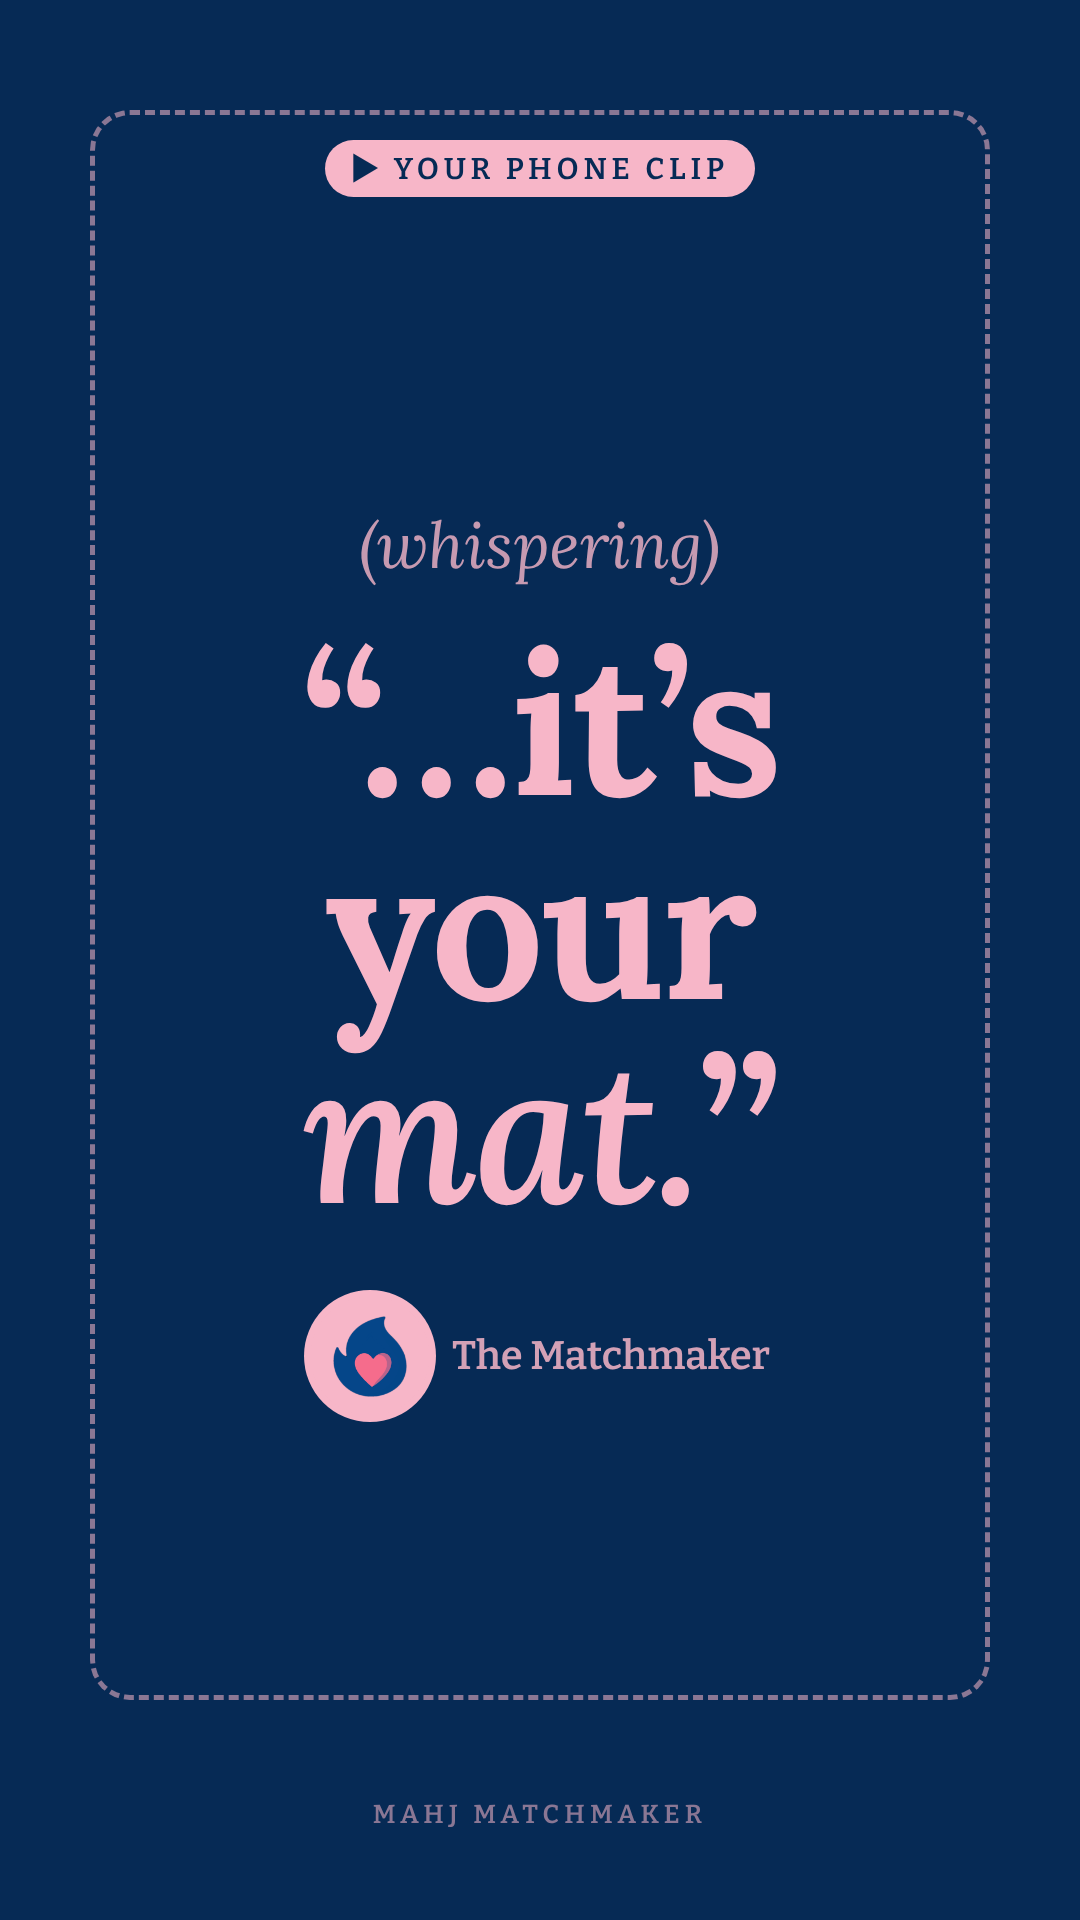
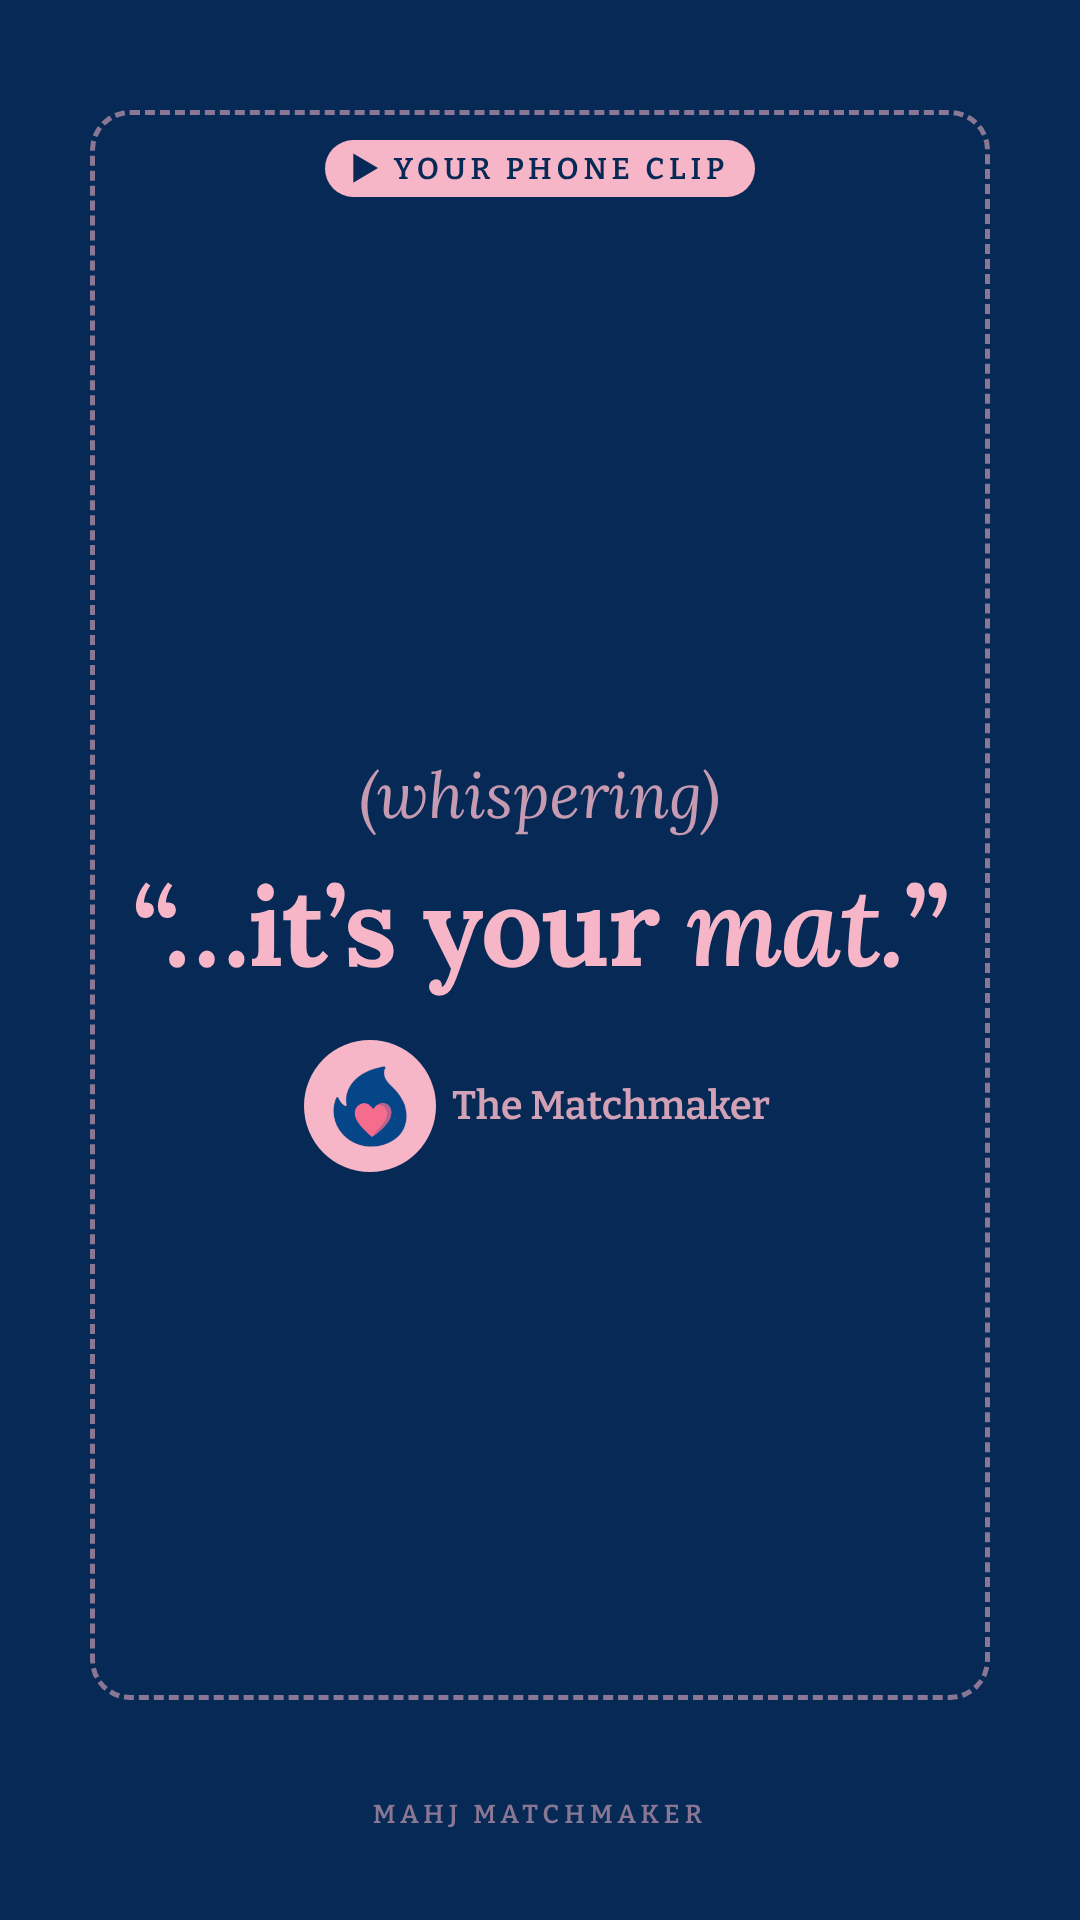
WIP: reel rebuild in progress
Claude-Session: https://claude.ai/code/session_014aKoC1ZMdZPjGkZ9kHhnLk

diff --git a/assets/social/titlecards/counseling-ep1-papaya/frames/f01.html b/assets/social/titlecards/counseling-ep1-papaya/frames/f01.html
@@ -10,10 +10,12 @@ html,body{width:1080px;height:1920px;overflow:hidden}
 .line i{font-style:italic;font-weight:600}
 .who{font:600 40px Bit;margin-top:56px;opacity:.85}
 .mark{position:absolute;bottom:90px;left:0;right:0;display:flex;justify-content:center;align-items:center;gap:14px;font:600 26px Bit;letter-spacing:.2em;text-transform:uppercase;opacity:.55}
-</style></head><body><div class="wrap" style="background:#062a55;padding:0">
-  <div style="position:absolute;right:-220px;top:-160px;width:760px;height:760px;border-radius:50%;background:#0c3a70"></div>
-  <div style="position:absolute;left:-240px;bottom:-220px;width:700px;height:700px;border-radius:50%;background:#0c3a70"></div>
-  <div style="position:relative;width:780px;height:1600px;border-radius:120px;background:#0b0b0d;padding:22px;box-shadow:0 40px 90px rgba(0,0,0,.45),inset 0 0 0 4px #2a2a2e">
+</style></head><body><div class="wrap" style="background:#f6e9df;padding:0">
+  <div style="position:absolute;right:-220px;top:-160px;width:760px;height:760px;border-radius:50%;background:#f9dccf"></div>
+  <div style="position:absolute;left:-240px;bottom:-220px;width:700px;height:700px;border-radius:50%;background:#fbe3ea"></div>
+  <svg style="position:absolute;left:70px;top:180px;transform:rotate(-12deg)" width="70" height="70" viewBox="0 0 48 48"><path d="M24 40 C10 30 6 23 6 17 C6 11 11 7 16 7 C20 7 22 9 24 12 C26 9 28 7 32 7 C37 7 42 11 42 17 C42 23 38 30 24 40 Z" fill="#f56c8c"/></svg><svg style="position:absolute;left:930px;top:330px;transform:rotate(10deg)" width="54" height="54" viewBox="0 0 48 48"><path d="M24 40 C10 30 6 23 6 17 C6 11 11 7 16 7 C20 7 22 9 24 12 C26 9 28 7 32 7 C37 7 42 11 42 17 C42 23 38 30 24 40 Z" fill="#f7b6c8"/></svg><svg style="position:absolute;left:40px;top:1180px;transform:rotate(8deg)" width="58" height="58" viewBox="0 0 48 48"><path d="M24 40 C10 30 6 23 6 17 C6 11 11 7 16 7 C20 7 22 9 24 12 C26 9 28 7 32 7 C37 7 42 11 42 17 C42 23 38 30 24 40 Z" fill="#f7b6c8"/></svg><svg style="position:absolute;left:960px;top:1500px;transform:rotate(-10deg)" width="76" height="76" viewBox="0 0 48 48"><path d="M24 40 C10 30 6 23 6 17 C6 11 11 7 16 7 C20 7 22 9 24 12 C26 9 28 7 32 7 C37 7 42 11 42 17 C42 23 38 30 24 40 Z" fill="#f56c8c"/></svg><svg style="position:absolute;left:110px;top:1700px;transform:rotate(12deg)" width="44" height="44" viewBox="0 0 48 48"><path d="M24 40 C10 30 6 23 6 17 C6 11 11 7 16 7 C20 7 22 9 24 12 C26 9 28 7 32 7 C37 7 42 11 42 17 C42 23 38 30 24 40 Z" fill="#ffa868"/></svg><svg style="position:absolute;left:900px;top:820px;transform:rotate(-6deg)" width="40" height="40" viewBox="0 0 48 48"><path d="M24 40 C10 30 6 23 6 17 C6 11 11 7 16 7 C20 7 22 9 24 12 C26 9 28 7 32 7 C37 7 42 11 42 17 C42 23 38 30 24 40 Z" fill="#ffa868"/></svg>
+  <div style="position:relative;width:780px;height:1600px;border-radius:120px;background:#f4a7bd;padding:24px;box-shadow:0 40px 80px rgba(200,50,95,.28),inset 0 0 0 6px #f9c6d4,inset 0 0 0 12px #f4a7bd">
+   <div style="position:absolute;right:-16px;top:300px;width:10px;height:150px;border-radius:6px;background:#ec93ad"></div><div style="position:absolute;left:-16px;top:260px;width:10px;height:90px;border-radius:6px;background:#ec93ad"></div><div style="position:absolute;left:-16px;top:380px;width:10px;height:90px;border-radius:6px;background:#ec93ad"></div>
    <div style="position:relative;width:100%;height:100%;border-radius:100px;overflow:hidden;background:url(file:///home/claude/mahjmatchmaker-data/assets/tiles/album/papaya-spritz.jpg) center/cover">
     <div style="position:absolute;inset:0;background:linear-gradient(to bottom,rgba(10,6,20,.62) 0%,rgba(10,6,20,.15) 38%,rgba(10,6,20,.25) 62%,rgba(10,6,20,.78) 100%)"></div>
     <div style="position:absolute;top:26px;left:50%;transform:translateX(-50%);width:230px;height:66px;border-radius:40px;background:#000;z-index:6"></div>

diff --git a/assets/social/titlecards/counseling-ep1-papaya/frames/f11.html b/assets/social/titlecards/counseling-ep1-papaya/frames/f11.html
@@ -10,4 +10,14 @@ html,body{width:1080px;height:1920px;overflow:hidden}
 .line i{font-style:italic;font-weight:600}
 .who{font:600 40px Bit;margin-top:56px;opacity:.85}
 .mark{position:absolute;bottom:90px;left:0;right:0;display:flex;justify-content:center;align-items:center;gap:14px;font:600 26px Bit;letter-spacing:.2em;text-transform:uppercase;opacity:.55}
-</style></head><body><div class="wrap" style="background:#062a55;color:#f7b6c8"><div style="position:absolute;top:110px;left:90px;right:90px;bottom:220px;border:5px dashed rgba(247,182,200,.55);border-radius:40px"></div><div style="position:absolute;top:140px;font:600 30px Bit;letter-spacing:.16em;text-transform:uppercase;background:#f7b6c8;color:#062a55;padding:10px 26px;border-radius:999px">&#9654; your phone clip</div><div class="line" style="font-size:128px">&ldquo;You deserve someone who brings out your <i>best colors.</i>&rdquo;</div><div style="display:flex;align-items:center;gap:22px;margin-top:64px"><div style="width:120px;height:120px;border-radius:50%;background:#f7b6c8 url(file:///home/claude/mahjmatchmaker-data/assets/brand/flame-heart.png) center/62% no-repeat;box-shadow:0 0 0 6px #f7b6c8"></div><div class="who" style="margin-top:0;text-align:left">The Matchmaker</div></div><div class="mark">mahj matchmaker</div></div></body></html>
+</style></head><body><div class="wrap" style="background:#062a55;color:#f7b6c8;justify-content:flex-start;padding-top:230px">
+  <div style="font-family:Lo;font-style:italic;font-size:60px;opacity:.85">(searches database)</div>
+  <div class="line" style="font-size:104px;margin-top:34px">&ldquo;You deserve someone who brings out your <i>best colors.</i>&rdquo;</div>
+  <div style="display:flex;align-items:center;gap:20px;margin-top:40px"><div style="width:96px;height:96px;border-radius:50%;background:#f7b6c8 url(file:///home/claude/mahjmatchmaker-data/assets/brand/flame-heart.png) center/62% no-repeat;box-shadow:0 0 0 5px #f7b6c8"></div><div class="who" style="margin-top:0">The Matchmaker</div></div>
+  <div style="position:relative;margin-top:90px;width:960px">
+    <div style="width:880px;margin:0 auto;background:#f4a7bd;border-radius:34px 34px 0 0;padding:22px 22px 26px;box-shadow:0 20px 50px rgba(0,0,0,.3)">
+      <div style="position:relative;width:836px;height:470px;border-radius:14px;overflow:hidden;background:#fff url(file:///home/claude/mahjmatchmaker-data/assets/colorcards/papaya-spritz/00-papaya-spritz-mahjong-tiles-profile-a-desktop.jpg) center/cover"></div></div>
+    <div style="width:960px;height:44px;background:#f9c6d4;border-radius:0 0 40px 40px;position:relative;box-shadow:0 18px 40px rgba(0,0,0,.25)"><div style="position:absolute;left:50%;top:0;transform:translateX(-50%);width:170px;height:16px;background:#ec93ad;border-radius:0 0 14px 14px"></div></div>
+  </div>
+  <div style="position:absolute;bottom:90px;left:0;right:0;text-align:center;font:600 26px Bit;letter-spacing:.2em;text-transform:uppercase;opacity:.55">mahj matchmaker</div>
+</div></body></html>

diff --git a/assets/social/titlecards/counseling-ep1-papaya/frames/research.html b/assets/social/titlecards/counseling-ep1-papaya/frames/research.html
@@ -1,0 +1,23 @@
+<!doctype html><html><head><meta charset=utf8><style>
+@font-face{font-family:Lo;src:url('file:///usr/share/fonts/truetype/google-fonts/Lora-Variable.ttf')}
+@font-face{font-family:Lo;font-style:italic;src:url('file:///usr/share/fonts/truetype/google-fonts/Lora-Italic-Variable.ttf')}
+@font-face{font-family:Bit;font-weight:600;src:url('file:///home/claude/mahjmatchmaker-data/scripts/social/tileprofile/fonts/bitter-latin-600-normal.woff2')}
+@font-face{font-family:Hand;src:url('file:///home/claude/mahjmatchmaker-data/scripts/social/tileprofile/fonts/Caveat-Bold.ttf')}
+*{margin:0;padding:0;box-sizing:border-box}
+html,body{width:1080px;height:1920px;overflow:hidden}
+.wrap{position:relative;width:1080px;height:1920px;display:flex;flex-direction:column;align-items:center;justify-content:center;text-align:center;padding:0 90px}
+.line{font-family:Lo;font-weight:700;line-height:1.02;letter-spacing:-.015em}
+.line i{font-style:italic;font-weight:600}
+.who{font:600 40px Bit;margin-top:56px;opacity:.85}
+.mark{position:absolute;bottom:90px;left:0;right:0;display:flex;justify-content:center;align-items:center;gap:14px;font:600 26px Bit;letter-spacing:.2em;text-transform:uppercase;opacity:.55}
+</style></head><body><div class="wrap" style="background:#062a55;color:#f7b6c8;justify-content:flex-start;padding-top:230px">
+  <div style="font-family:Lo;font-style:italic;font-size:60px;opacity:.85">(searches database)</div>
+  <div class="line" style="font-size:104px;margin-top:34px">&ldquo;You deserve someone who brings out your <i>best colors.</i>&rdquo;</div>
+  <div style="display:flex;align-items:center;gap:20px;margin-top:40px"><div style="width:96px;height:96px;border-radius:50%;background:#f7b6c8 url(file:///home/claude/mahjmatchmaker-data/assets/brand/flame-heart.png) center/62% no-repeat;box-shadow:0 0 0 5px #f7b6c8"></div><div class="who" style="margin-top:0">The Matchmaker</div></div>
+  <div style="position:relative;margin-top:90px;width:960px">
+    <div style="width:880px;margin:0 auto;background:#f4a7bd;border-radius:34px 34px 0 0;padding:22px 22px 26px;box-shadow:0 20px 50px rgba(0,0,0,.3)">
+      <div style="position:relative;width:836px;height:470px;border-radius:14px;overflow:hidden;background:#fff url(file:///home/claude/mahjmatchmaker-data/assets/colorcards/papaya-spritz/00-papaya-spritz-mahjong-tiles-profile-a-desktop.jpg) center/cover"></div></div>
+    <div style="width:960px;height:44px;background:#f9c6d4;border-radius:0 0 40px 40px;position:relative;box-shadow:0 18px 40px rgba(0,0,0,.25)"><div style="position:absolute;left:50%;top:0;transform:translateX(-50%);width:170px;height:16px;background:#ec93ad;border-radius:0 0 14px 14px"></div></div>
+  </div>
+  <div style="position:absolute;bottom:90px;left:0;right:0;text-align:center;font:600 26px Bit;letter-spacing:.2em;text-transform:uppercase;opacity:.55">mahj matchmaker</div>
+</div></body></html>

diff --git a/assets/social/titlecards/counseling-ep1-papaya/frames/f08.html b/assets/social/titlecards/counseling-ep1-papaya/frames/f08.html
@@ -10,4 +10,4 @@ html,body{width:1080px;height:1920px;overflow:hidden}
 .line i{font-style:italic;font-weight:600}
 .who{font:600 40px Bit;margin-top:56px;opacity:.85}
 .mark{position:absolute;bottom:90px;left:0;right:0;display:flex;justify-content:center;align-items:center;gap:14px;font:600 26px Bit;letter-spacing:.2em;text-transform:uppercase;opacity:.55}
-</style></head><body><div class="wrap" style="background:#062a55;color:#f7b6c8"><div style="position:absolute;top:110px;left:90px;right:90px;bottom:220px;border:5px dashed rgba(247,182,200,.55);border-radius:40px"></div><div style="position:absolute;top:140px;font:600 30px Bit;letter-spacing:.16em;text-transform:uppercase;background:#f7b6c8;color:#062a55;padding:10px 26px;border-radius:999px">&#9654; your phone clip</div><div style="font-family:Lo;font-style:italic;font-size:64px;opacity:.8;margin-bottom:34px">(whispering)</div><div class="line" style="font-size:200px">&ldquo;&hellip;it&rsquo;s your <i>mat.</i>&rdquo;</div><div style="display:flex;align-items:center;gap:22px;margin-top:64px"><div style="width:120px;height:120px;border-radius:50%;background:#f7b6c8 url(file:///home/claude/mahjmatchmaker-data/assets/brand/flame-heart.png) center/62% no-repeat;box-shadow:0 0 0 6px #f7b6c8"></div><div class="who" style="margin-top:0;text-align:left">The Matchmaker</div></div><div class="mark">mahj matchmaker</div></div></body></html>
+</style></head><body><div class="wrap" style="background:#062a55;color:#f7b6c8"><div style="position:absolute;top:110px;left:90px;right:90px;bottom:220px;border:5px dashed rgba(247,182,200,.55);border-radius:40px"></div><div style="position:absolute;top:140px;font:600 30px Bit;letter-spacing:.16em;text-transform:uppercase;background:#f7b6c8;color:#062a55;padding:10px 26px;border-radius:999px">&#9654; your phone clip</div><div style="font-family:Lo;font-style:italic;font-size:64px;opacity:.8;margin-bottom:34px">(whispering)</div><div class="line" style="font-size:110px">&ldquo;&hellip;it&rsquo;s your <i>mat.</i>&rdquo;</div><div style="display:flex;align-items:center;gap:22px;margin-top:64px"><div style="width:120px;height:120px;border-radius:50%;background:#f7b6c8 url(file:///home/claude/mahjmatchmaker-data/assets/brand/flame-heart.png) center/62% no-repeat;box-shadow:0 0 0 6px #f7b6c8"></div><div class="who" style="margin-top:0;text-align:left">The Matchmaker</div></div><div class="mark">mahj matchmaker</div></div></body></html>
